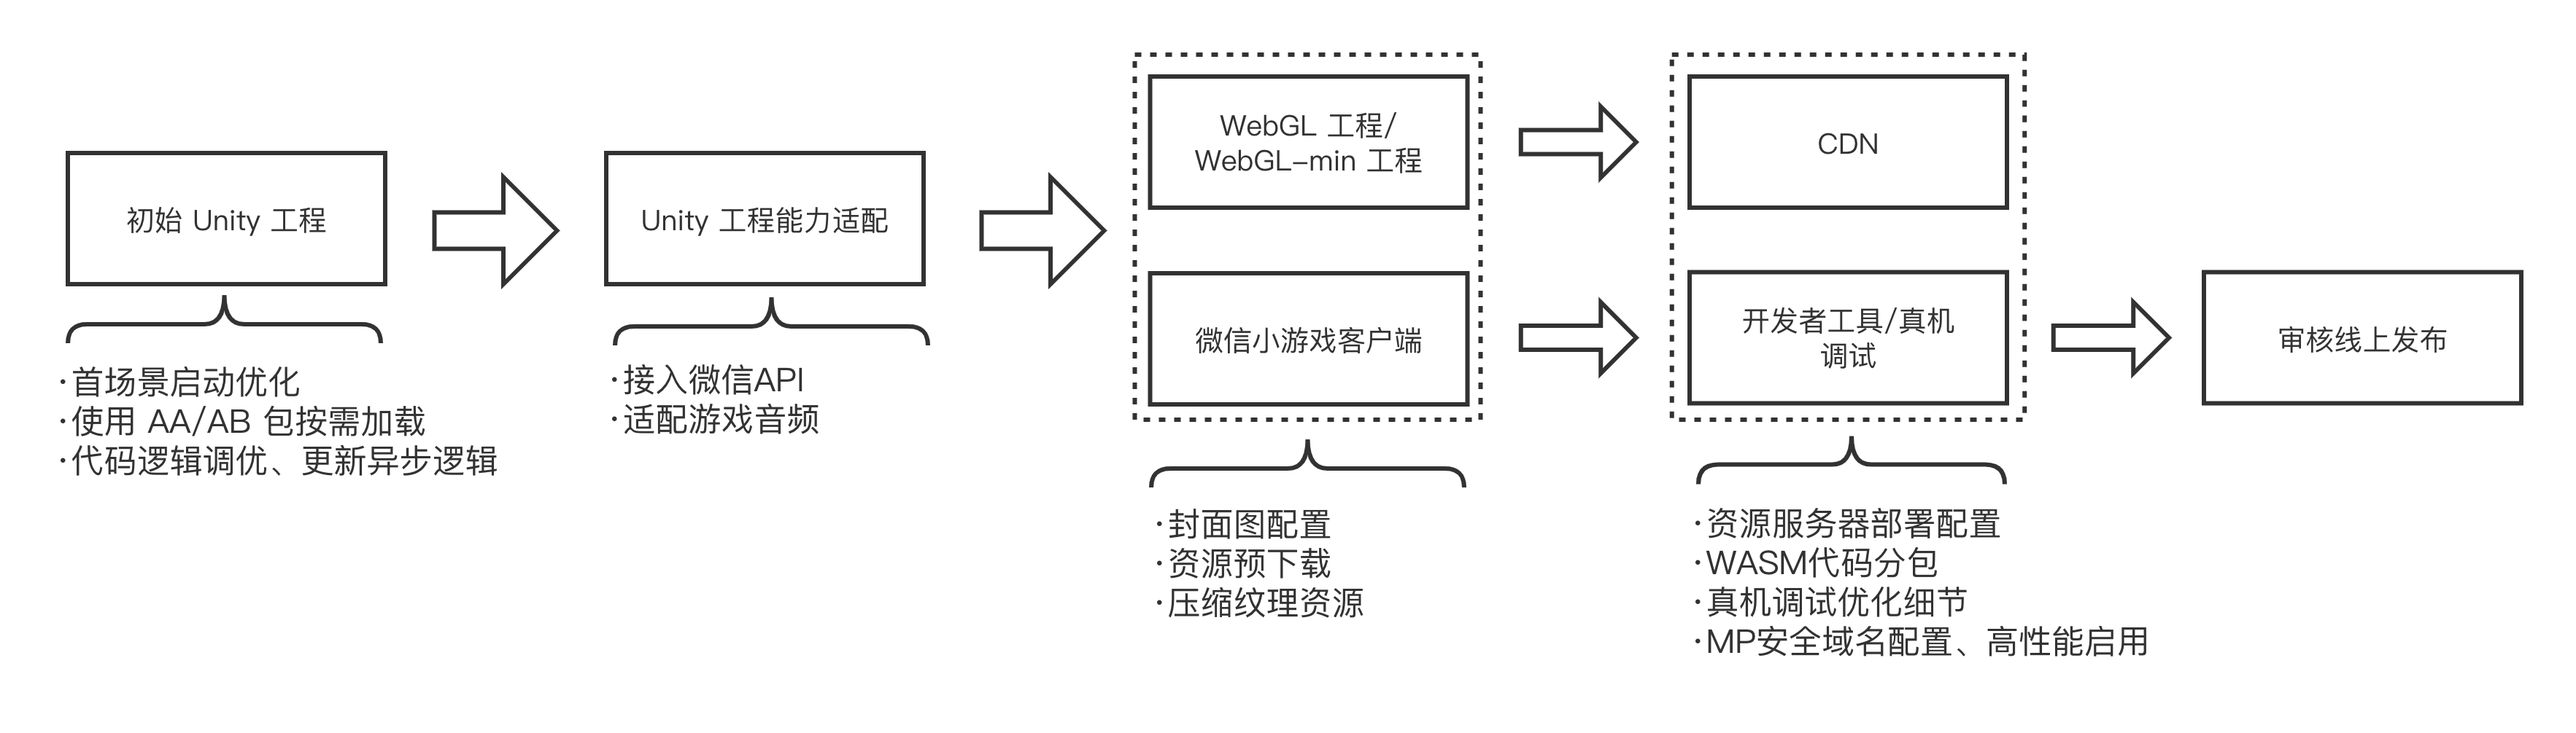
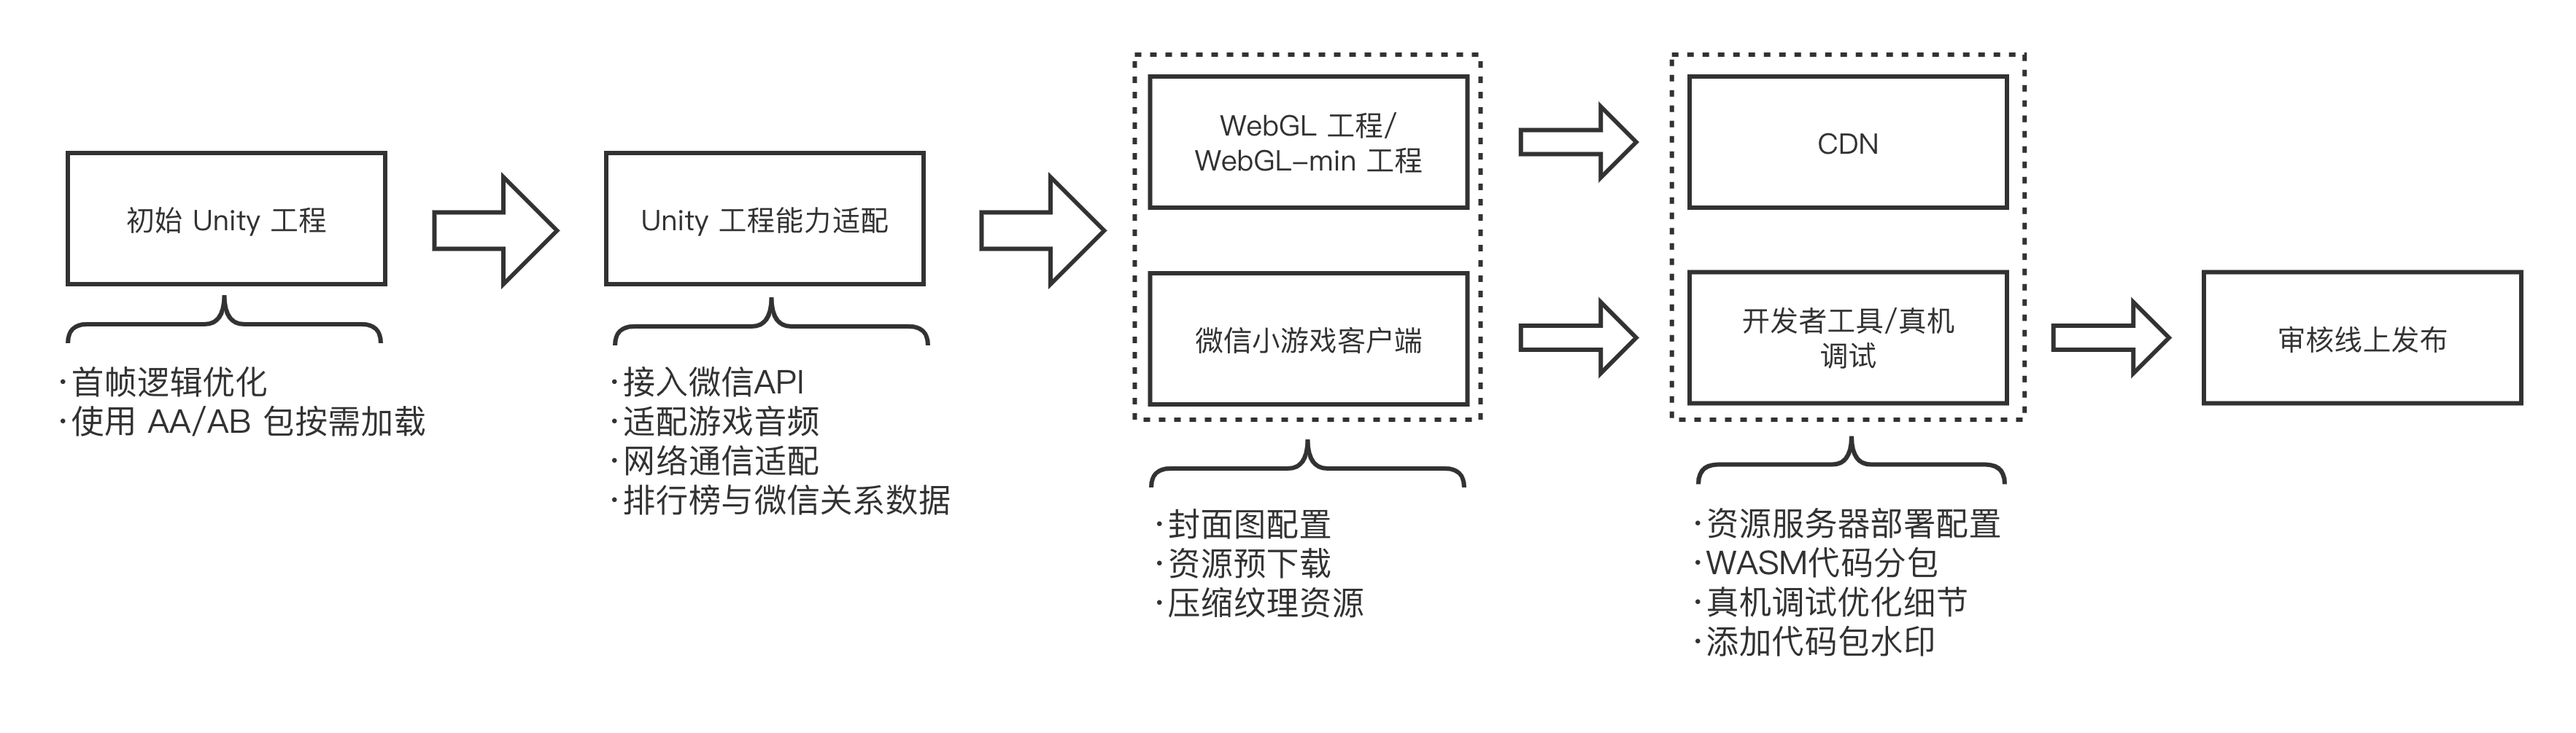
docs: Unity Convert Guide

Changed region(s): [[0.0312, 0.493, 0.3738, 0.7087], [0.6542, 0.832, 0.8411, 0.8936], [0.0312, 0.493, 0.1246, 0.5547]]

diff --git a/Design/Guide.md b/Design/Guide.md
@@ -1,16 +1,20 @@
 # Unity 游戏接入微信小游戏指南
 
+> 相关下载 [微信 Unity 插件下载](https://game.weixin.qq.com/cgi-bin/gamewxagwasmsplitwap/getunityplugininfo?download=1)
+
 		本文档将介绍微信平台提供的各项转化能力的说明与指引，并告知开发者如何根据自己的游戏正确使用这些能力以达到最佳的游戏转化效果，开发者参考文档根据自己游戏所符合条件开始实践！
 
 		下图中介绍了接入过程中的流程，以及每一个阶段需要做的优化与配置，下文将介绍每一个阶段的工作：
 
 ![guide01](../image/guide/guide01.png)
 
-### 首场景启动优化
+### 首场景启动优化——首帧逻辑优化
 
 > 详细手册：[提升Unity WebGL游戏启动速度]() 与 [首场景启动优化]()
 
 		根据统计数据反应，小游戏玩家对于游戏的启动时长是较为敏感的，过长的启动时间会导致用户的显著流失，因此如何快速呈现游戏场景是 Unity 原生 APP 游戏接入微信小游戏平台的一个重点优化的工作。能够影响小游戏启动速度的因素包括：首资源包的下载、WASM代码下载与编译、引擎初始化和开发者的首帧逻辑。
+
+		首场景启动优化的并不是一个简单的步骤就可以完全优化，在初始 Unity 工程时开发者应主要对游戏代码如首帧逻辑进行修改，具体可参阅首场景启动优化手册。后续的优化在后面的步骤小节中将具体介绍。
 
 
 
@@ -18,11 +22,39 @@
 
 > 详细手册：[AA(Addressable) 进行资源按需加载]() 与 [AB(AssetBundle)进行资源按需加载]()
 
-		区别于原生 APP 游戏很少考虑场景内的资源规划问题，开发时往往将资源在游戏启动时全加载到内存中，而小游戏中游戏需要做到“即点即玩”，在游戏的影响呈现速度中一般诸如首资源包的下载往往占比较大，因此需要根据场景中的主次内容进行资源上的优化分包处理。
+		区别于原生 APP 游戏很少考虑场景内的资源规划问题，开发时通常将资源在游戏启动时全加载到内存中，而小游戏中游戏需要做到“即点即玩”，影响游戏的呈现速度因素中一般诸如首资源包的下载往往占比较大，因此需要根据场景中的主次内容进行资源上的优化分包处理。
+
+		值得注意的是，微信小游戏环境中**不支持对本地的 Bundle 进行加载**，因此必须采用上传 CDN 方式进行异步的下载。
 
 #### AA包与AB包方案选择
 
-		有关 AA包 与 AB包 的选择，对于轻度游戏来说两者没有特别建议，倒是使用功能强大的 AA包 使用门槛更低一些，而对于重度游戏，平台目前所反馈到的结论是使用 **AB包** 的性能要比 AA包 更好，AA包较大项目时生成的未压缩的 catalog 较大，加载效率低，改用 AB包后，效果提升明显。
+		有关 AA包 与 AB包 的选择，对于轻度游戏来说两者没有特别建议，倒是功能强大的 AA包 使用门槛更低一些，而对于重度游戏，平台目前所反馈到的结论是使用 **AB包** 的性能要比 AA包 更好，AA包较大项目时生成的未压缩的 catalog 较大，加载效率低，改用 AB包后，效果提升明显。
+
+
+
+### 接入微信API
+
+> 详细手册：[WX SDK 平台能力适配]() 、[屏幕适配]() 、 [输入法适配]() 、 [排行榜与微信关系数据]()
+
+		Unity 游戏接入微信小游戏平台将获得微信提供的 API 以及开放能力，开发者根据需要进行按需接入。微信 API 支持的能力包括登陆、设备（存储、震动）、开放数据、广告等等。
+
+
+
+### 适配游戏音频
+
+> 详细手册：[音频适配优化]()
+
+		Unity2021 版本之前的音频不支持压缩音频，基于 CPU 解压将额外占用内存。在iOS高性能模式下 Unity WebGL 默认使用的 WebAudio 也会消耗大量内存。
+
+		微信SDK 提供了 音频API 控制播放，因此建议游戏开发者进行相应的替换。
+
+
+
+### 网络通信适配
+
+> 详细手册：[网络通信适配]()
+
+		区别于原生环境，WebGL模式（JavaScript环境）是不支持使用原生套接字（Socket）实现网络通信。对于游戏中使用到网络请求的操作，需要进行相应的适配。将 HTTP 请求使用 UnityWebRequest 类实现，全双工通信改用 WebSocket 协议实现，可参考手册案例完成适配。
 
 
 
@@ -60,11 +92,27 @@
 
 
 
+### 资源服务器部署配置
+
+> 详细手册：[资源部署与缓存]() 、[资源缓存]()
+
+		游戏导出小游戏包(/minigame)将使用微信开发者工具打开，而资源目录(/webgl 或 /webgl-min)需要上传至开发者的 CDN 服务器中，并前往 MP 后台配置安全域名白名单，请阅读相关手册完成相应的部署。
+
+
+
 ### WASM代码分包
 
 > 详细手册：[使用代码分包工具]()
 
 		Unity 导出小游戏项目后代码将存储在 wasm 文件中，而游戏启动时需要完整的 wasm 文件才可以运行，于是微信小游戏提供了WASM代码分包能力，将原本的 wasm 文件根据游戏逻辑的主次内容分为 2 个 wasm 文件，一个用于启动加载另一个将被延迟加载，这样就允许先加载较小的首包快速进入主场景。该能力可以有效**降低内存的使用**，以及**减少脚本编译的时间**。
+
+
+
+### 使用水印保护代码包安全
+
+> 详细手册：[WASM水印插件]()
+
+		为保护原创游戏开发者的利益，通过对代码包进行水印的添加平台可快速准确的打击恶意抄袭的行为。
 
 
 
@@ -76,7 +124,7 @@
 
 		特点：游戏总包体积较小，“关卡”休闲类小游戏等。
 
-		转化：代价较低，较少变动即可满足运行要求。亦可采用 [Unity Instant Game 方案]() 快速转化。
+		转化：代价较低，较少变动即可满足运行要求。
 
 - 原生 APP 平台采用本地 AB/AA 包的游戏
 
